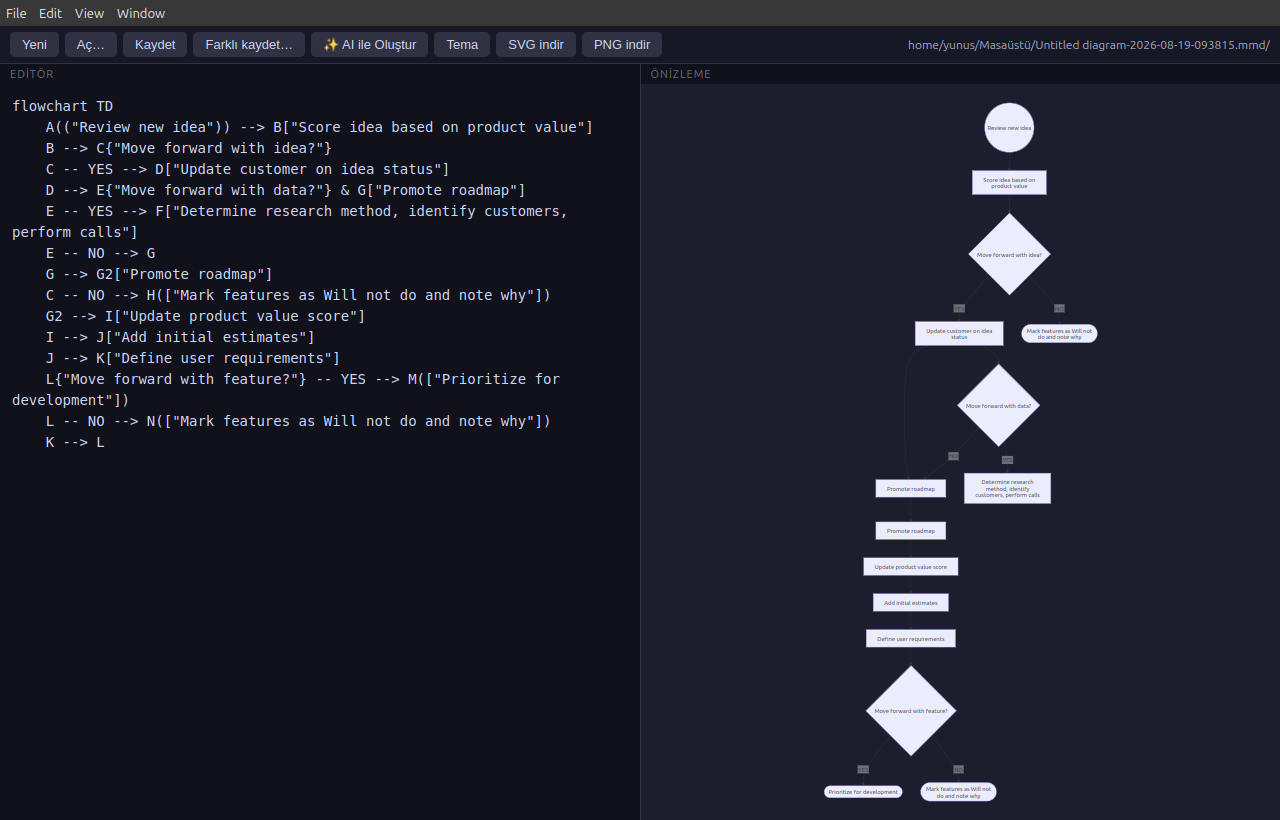
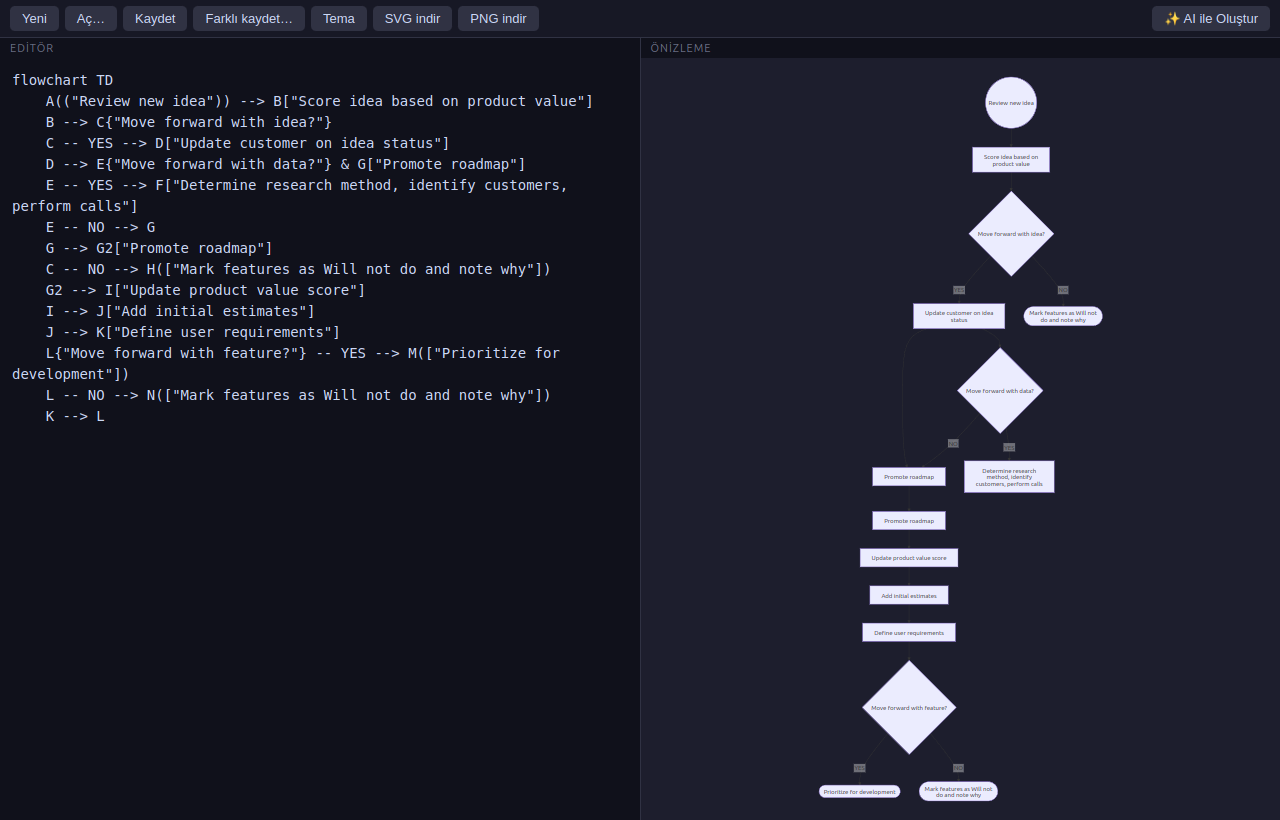
UI: üst menü çubuğunu kaldır, AI butonunu sağ kenara taşı, dosya yolu alanını kaldır

Changed region(s): [[0.0, 0.0, 1.0, 0.5183], [0.6562, 0.0915, 0.875, 0.9146], [0.625, 0.9146, 0.7812, 0.9756]]

diff --git a/renderer.js b/renderer.js
@@ -1,6 +1,5 @@
 const editor = document.getElementById('editor');
 const preview = document.getElementById('preview');
-const pathLabel = document.getElementById('path-label');
 
 let currentPath = null;
 let dirty = false;
@@ -56,7 +55,6 @@ async function loadFile(p) {
   }
   currentPath = res.path;
   editor.value = res.content;
-  pathLabel.textContent = res.path;
   document.title = res.path.split('/').pop() + ' — Mermaid Editor';
   dirty = false;
   renderPreview();
@@ -67,7 +65,6 @@ async function save() {
   const res = await window.api.writeFile(currentPath, editor.value);
   if (res.ok) {
     dirty = false;
-    pathLabel.textContent = currentPath;
   } else {
     alert('Kaydedilemedi: ' + (res.error || ''));
   }
@@ -79,7 +76,6 @@ async function saveAs() {
   if (res.ok) {
     currentPath = res.path;
     dirty = false;
-    pathLabel.textContent = res.path;
     document.title = res.path.split('/').pop() + ' — Mermaid Editor';
   } else if (!res.canceled) {
     alert('Kaydedilemedi: ' + (res.error || ''));
@@ -120,7 +116,7 @@ async function exportPng() {
 
 // ----- etkinlikler -----
 document.getElementById('btn-new').onclick = () => {
-  currentPath = null; editor.value = ''; pathLabel.textContent = ''; dirty = false;
+  currentPath = null; editor.value = ''; dirty = false;
   document.title = 'Mermaid Editor'; renderPreview();
 };
 document.getElementById('btn-open').onclick = async () => {

diff --git a/renderer.html b/renderer.html
@@ -9,7 +9,6 @@
   #toolbar { display: flex; gap: 6px; align-items: center; padding: 6px 10px; background: #181825; border-bottom: 1px solid #313244; flex-wrap: wrap; }
   #toolbar button { background: #313244; color: #cdd6f4; border: none; border-radius: 5px; padding: 5px 12px; cursor: pointer; font-size: 13px; }
   #toolbar button:hover { background: #45475a; }
-  #path-label { font-size: 12px; color: #a6adc8; margin-left: auto; overflow: hidden; text-overflow: ellipsis; white-space: nowrap; max-width: 40%; direction: rtl; }
   #main { flex: 1; display: flex; min-height: 0; }
   .pane { flex: 1; min-width: 0; display: flex; flex-direction: column; }
   .pane-title { font-size: 11px; text-transform: uppercase; letter-spacing: 1px; padding: 4px 10px; background: #11111b; color: #6c7086; }
@@ -65,11 +64,10 @@
     <button id="btn-open">Aç…</button>
     <button id="btn-save">Kaydet</button>
     <button id="btn-saveas">Farklı kaydet…</button>
-    <button id="btn-ai">✨ AI ile Oluştur</button>
     <button id="btn-theme">Tema</button>
     <button id="btn-export-svg">SVG indir</button>
     <button id="btn-export-png">PNG indir</button>
-    <span id="path-label"></span>
+    <button id="btn-ai" style="margin-left:auto">✨ AI ile Oluştur</button>
   </div>
   <div id="main">
     <div class="pane">

diff --git a/main.js b/main.js
@@ -45,14 +45,8 @@ if (!app.requestSingleInstanceLock()) {
 }
 
 app.whenReady().then(() => {
-  Menu.setApplicationMenu(
-    Menu.buildFromTemplate([
-      { role: 'fileMenu' },
-      { role: 'editMenu' },
-      { role: 'viewMenu' },
-      { role: 'windowMenu' },
-    ])
-  );
+  // Üst menü çubuğu (File/Edit/View/Window) kaldırıldı
+  Menu.setApplicationMenu(null);
   const files = extractMmdArgs(process.argv);
   if (files.length === 0) {
     createWindow(null);
